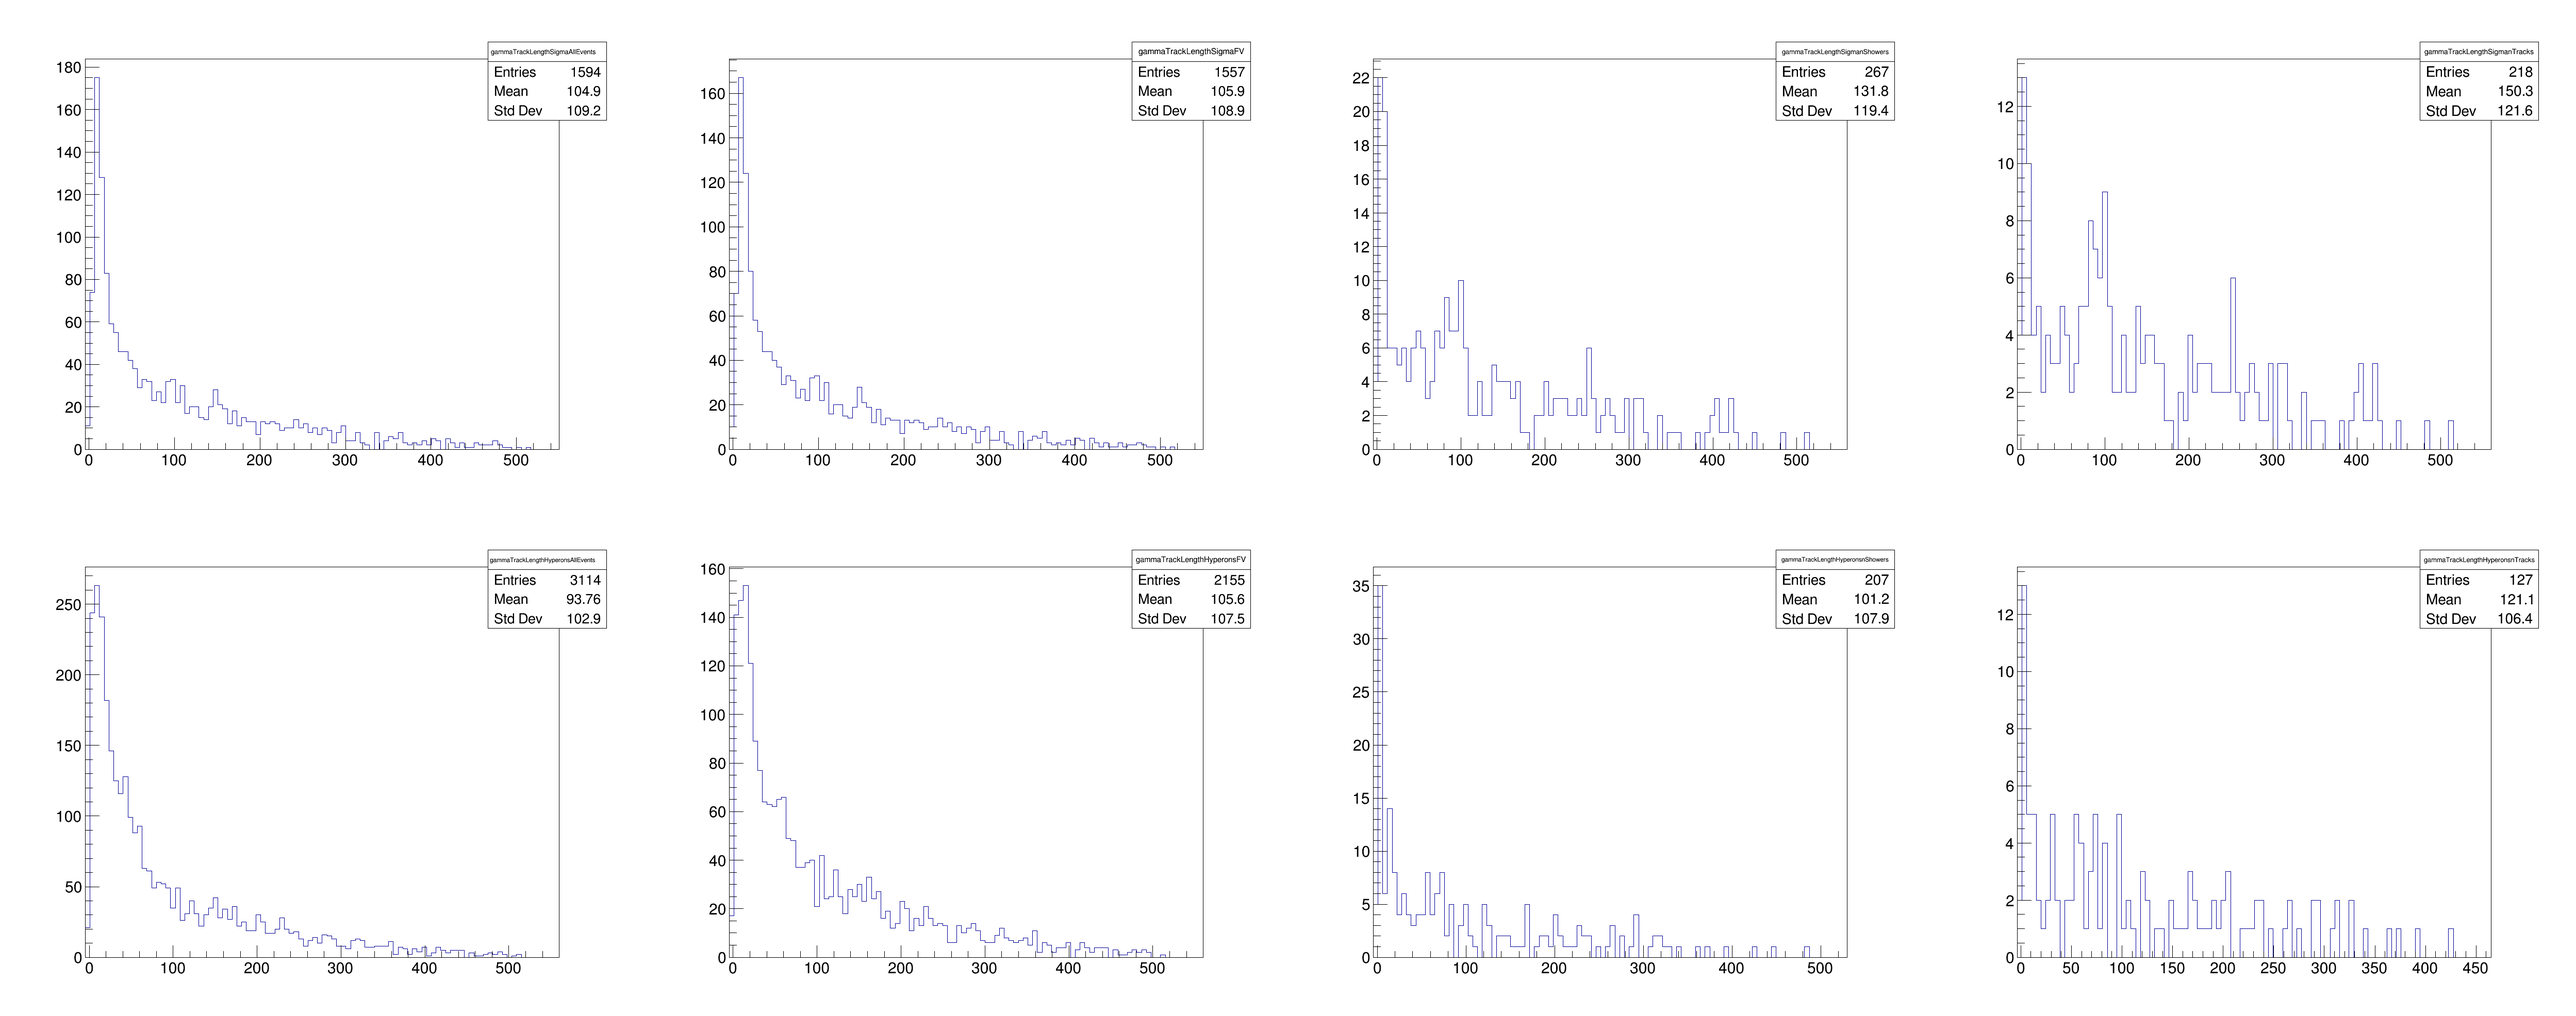
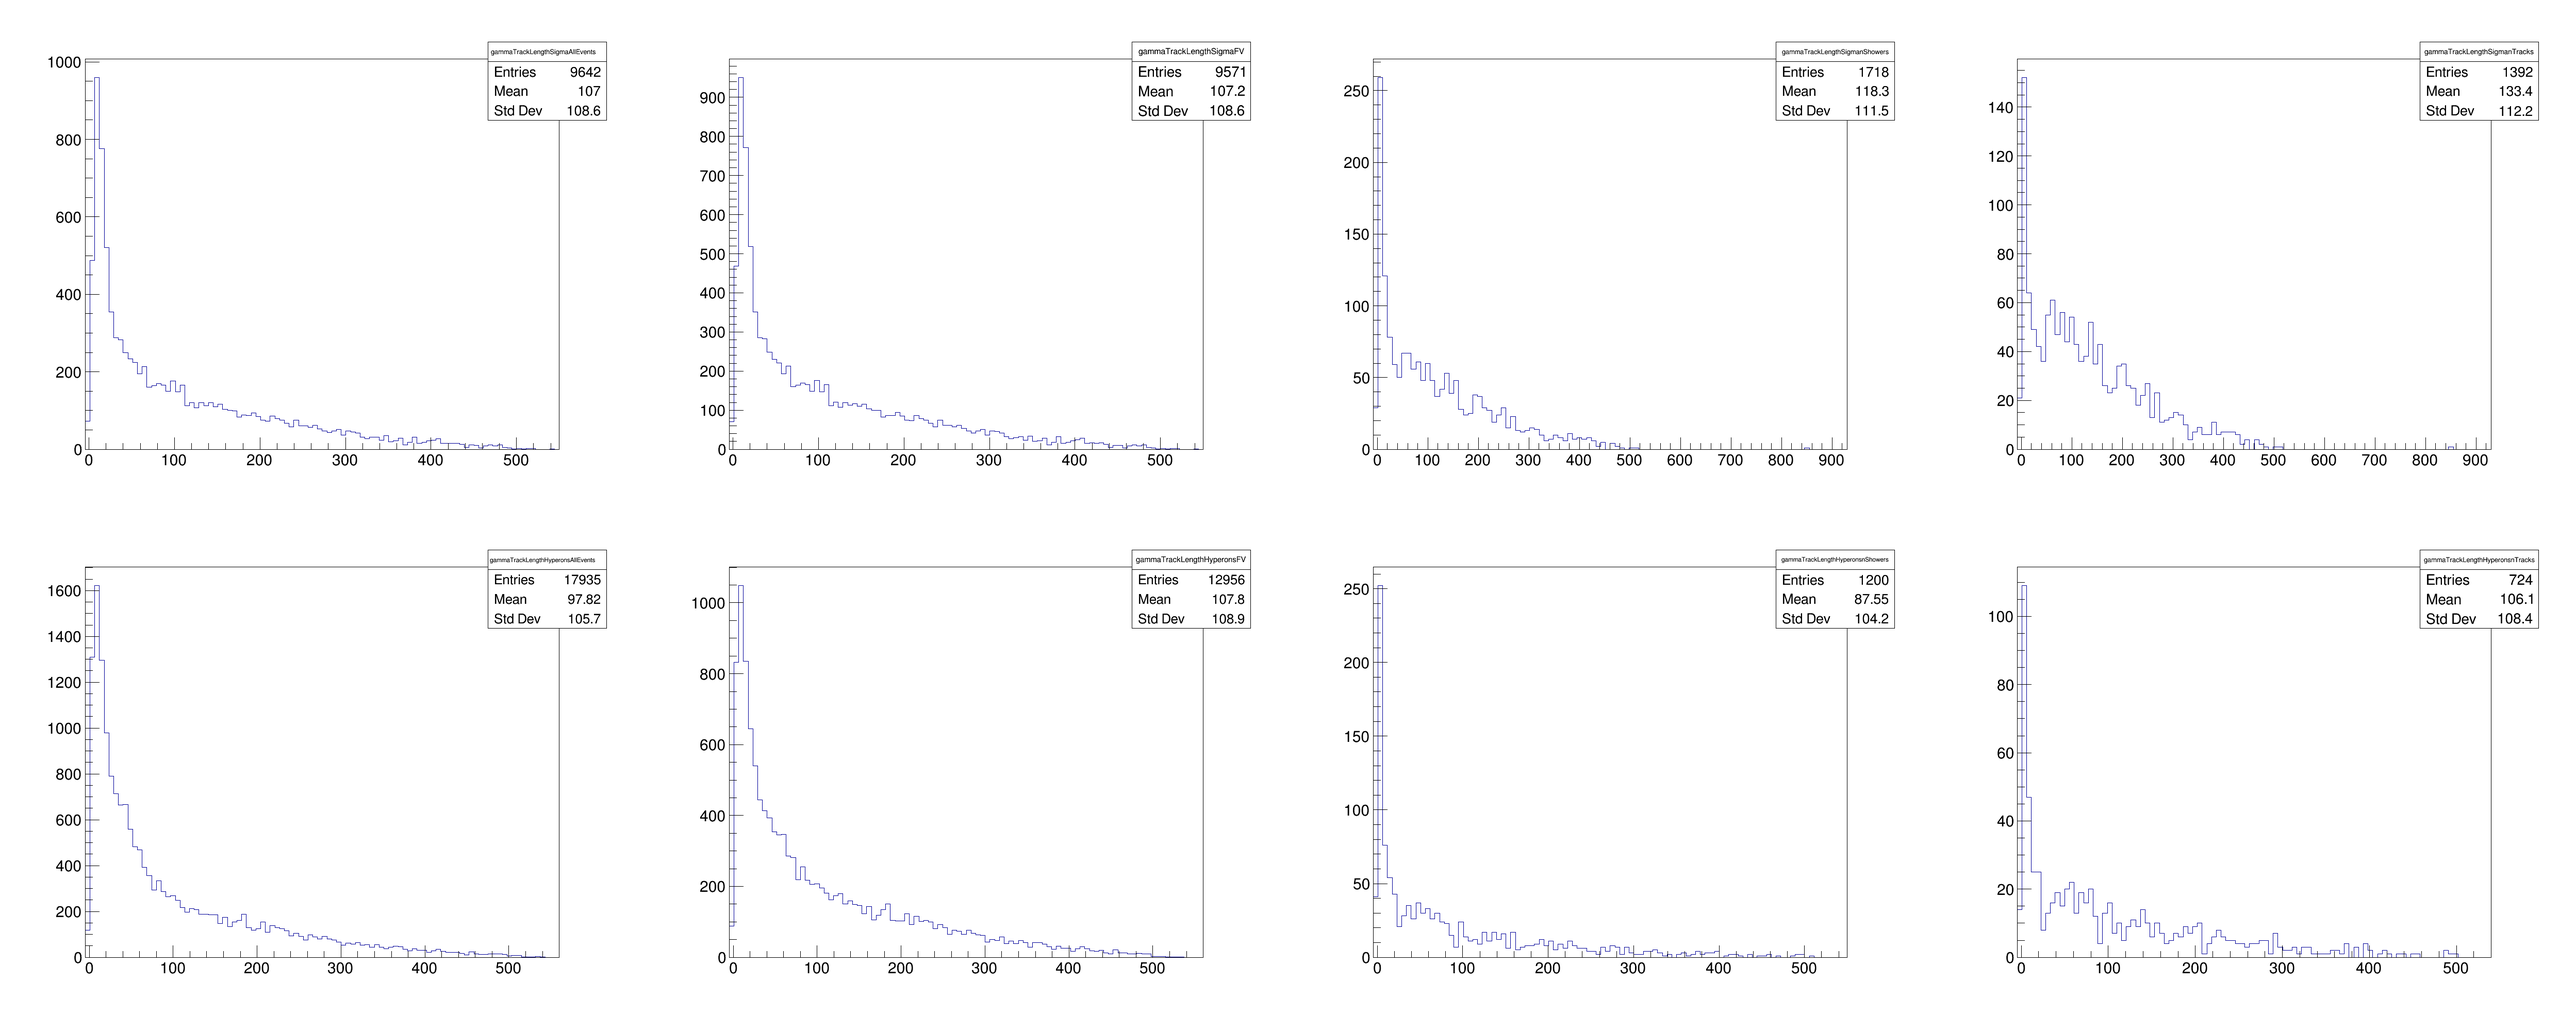
script for running 3 batches at once

diff --git a/output/signalPreselect.h b/output/signalPreselect.h
@@ -1,8 +1,8 @@
 //////////////////////////////////////////////////////////
 // This class has been automatically generated on
-// Tue Feb  3 15:23:03 2026 by ROOT version 6.38.00
-// from TTree TreeS/Output TTree
-// found on file: TreeS.root
+// Fri Feb 13 15:25:29 2026 by ROOT version 6.38.00
+// from TTree tree/Output TTree
+// found on file: hyperonAnalysisSIG.root
 //////////////////////////////////////////////////////////
 
 #ifndef signalPreselect_h
@@ -49,13 +49,19 @@ public :
    vector<float>   *DistanceToRecoVertex;
    vector<float>   *nuScores;
    vector<float>   *trackScores;
+   vector<float>   *muonTrackScores;
+   vector<float>   *protonTrackScores;
+   vector<float>   *pionTrackScores;
    vector<float>   *NeutrinoNuScores;
-   vector<float>   *TrackStartPositionX;
-   vector<float>   *TrackStartPositionY;
-   vector<float>   *TrackStartPositionZ;
-   vector<float>   *TrackEndPositionX;
-   vector<float>   *TrackEndPositionY;
-   vector<float>   *TrackEndPositionZ;
+   vector<float>   *trackStartPositionX;
+   vector<float>   *trackStartPositionY;
+   vector<float>   *trackStartPositionZ;
+   vector<float>   *trackEndPositionX;
+   vector<float>   *trackEndPositionY;
+   vector<float>   *trackEndPositionZ;
+   vector<int>     *pfpTrackPDG;
+   vector<int>     *pfpShowerPDG;
+   vector<int>     *pfpPDG;
 
    // List of branches
    TBranch        *b_eventID;   //!
@@ -83,13 +89,19 @@ public :
    TBranch        *b_DistanceToRecoVertex;   //!
    TBranch        *b_nuScores;   //!
    TBranch        *b_trackScores;   //!
+   TBranch        *b_muonTrackScores;   //!
+   TBranch        *b_protonTrackScores;   //!
+   TBranch        *b_pionTrackScores;   //!
    TBranch        *b_NeutrinoNuScores;   //!
-   TBranch        *b_TrackStartPositionX;   //!
-   TBranch        *b_TrackStartPositionY;   //!
-   TBranch        *b_TrackStartPositionZ;   //!
-   TBranch        *b_TrackEndPositionX;   //!
-   TBranch        *b_TrackEndPositionY;   //!
-   TBranch        *b_TrackEndPositionZ;   //!
+   TBranch        *b_trackStartPositionX;   //!
+   TBranch        *b_trackStartPositionY;   //!
+   TBranch        *b_trackStartPositionZ;   //!
+   TBranch        *b_trackEndPositionX;   //!
+   TBranch        *b_trackEndPositionY;   //!
+   TBranch        *b_trackEndPositionZ;   //!
+   TBranch        *b_pfpTrackPDG;   //!
+   TBranch        *b_pfpShowerPDG;   //!
+   TBranch        *b_pfpPDG; //!
 
    signalPreselect(TTree *tree=0);
    virtual ~signalPreselect();
@@ -168,13 +180,19 @@ void signalPreselect::Init(TTree *tree)
    DistanceToRecoVertex = 0;
    nuScores = 0;
    trackScores = 0;
+   muonTrackScores = 0;
+   protonTrackScores = 0;
+   pionTrackScores = 0;
    NeutrinoNuScores = 0;
-   TrackStartPositionX = 0;
-   TrackStartPositionY = 0;
-   TrackStartPositionZ = 0;
-   TrackEndPositionX = 0;
-   TrackEndPositionY = 0;
-   TrackEndPositionZ = 0;
+   trackStartPositionX = 0;
+   trackStartPositionY = 0;
+   trackStartPositionZ = 0;
+   trackEndPositionX = 0;
+   trackEndPositionY = 0;
+   trackEndPositionZ = 0;
+   pfpTrackPDG = 0;
+   pfpShowerPDG = 0;
+   pfpPDG = 0;
    // Set branch addresses and branch pointers
    if (!tree) return;
    fChain = tree;
@@ -206,13 +224,19 @@ void signalPreselect::Init(TTree *tree)
    fChain->SetBranchAddress("DistanceToRecoVertex", &DistanceToRecoVertex, &b_DistanceToRecoVertex);
    fChain->SetBranchAddress("nuScores", &nuScores, &b_nuScores);
    fChain->SetBranchAddress("trackScores", &trackScores, &b_trackScores);
+   fChain->SetBranchAddress("muonTrackScores", &muonTrackScores, &b_muonTrackScores);
+   fChain->SetBranchAddress("protonTrackScores", &protonTrackScores, &b_protonTrackScores);
+   fChain->SetBranchAddress("pionTrackScores", &pionTrackScores, &b_pionTrackScores);
    fChain->SetBranchAddress("NeutrinoNuScores", &NeutrinoNuScores, &b_NeutrinoNuScores);
-   fChain->SetBranchAddress("TrackStartPositionX", &TrackStartPositionX, &b_TrackStartPositionX);
-   fChain->SetBranchAddress("TrackStartPositionY", &TrackStartPositionY, &b_TrackStartPositionY);
-   fChain->SetBranchAddress("TrackStartPositionZ", &TrackStartPositionZ, &b_TrackStartPositionZ);
-   fChain->SetBranchAddress("TrackEndPositionX", &TrackEndPositionX, &b_TrackEndPositionX);
-   fChain->SetBranchAddress("TrackEndPositionY", &TrackEndPositionY, &b_TrackEndPositionY);
-   fChain->SetBranchAddress("TrackEndPositionZ", &TrackEndPositionZ, &b_TrackEndPositionZ);
+   fChain->SetBranchAddress("trackStartPositionX", &trackStartPositionX, &b_trackStartPositionX);
+   fChain->SetBranchAddress("trackStartPositionY", &trackStartPositionY, &b_trackStartPositionY);
+   fChain->SetBranchAddress("trackStartPositionZ", &trackStartPositionZ, &b_trackStartPositionZ);
+   fChain->SetBranchAddress("trackEndPositionX", &trackEndPositionX, &b_trackEndPositionX);
+   fChain->SetBranchAddress("trackEndPositionY", &trackEndPositionY, &b_trackEndPositionY);
+   fChain->SetBranchAddress("trackEndPositionZ", &trackEndPositionZ, &b_trackEndPositionZ);
+   fChain->SetBranchAddress("pfpTrackPDG", &pfpTrackPDG, &b_pfpTrackPDG);
+   fChain->SetBranchAddress("pfpShowerPDG", &pfpShowerPDG, &b_pfpShowerPDG);
+   fChain->SetBranchAddress("pfpPDG", &pfpPDG, &b_pfpPDG);
    Notify();
 }
 

diff --git a/output/signalDef.h b/output/signalDef.h
@@ -53,12 +53,12 @@ public :
    vector<float>   *protonTrackScores;
    vector<float>   *pionTrackScores;
    vector<float>   *NeutrinoNuScores;
-   vector<float>   *TrackStartPositionX;
-   vector<float>   *TrackStartPositionY;
-   vector<float>   *TrackStartPositionZ;
-   vector<float>   *TrackEndPositionX;
-   vector<float>   *TrackEndPositionY;
-   vector<float>   *TrackEndPositionZ;
+   vector<float>   *trackStartPositionX;
+   vector<float>   *trackStartPositionY;
+   vector<float>   *trackStartPositionZ;
+   vector<float>   *trackEndPositionX;
+   vector<float>   *trackEndPositionY;
+   vector<float>   *trackEndPositionZ;
    vector<int>     *pfpTrackPDG;
    vector<int>     *pfpShowerPDG;
    vector<int>     *pfpPDG;
@@ -93,12 +93,12 @@ public :
    TBranch        *b_protonTrackScores;   //!
    TBranch        *b_pionTrackScores;   //!
    TBranch        *b_NeutrinoNuScores;   //!
-   TBranch        *b_TrackStartPositionX;   //!
-   TBranch        *b_TrackStartPositionY;   //!
-   TBranch        *b_TrackStartPositionZ;   //!
-   TBranch        *b_TrackEndPositionX;   //!
-   TBranch        *b_TrackEndPositionY;   //!
-   TBranch        *b_TrackEndPositionZ;   //!
+   TBranch        *b_trackStartPositionX;   //!
+   TBranch        *b_trackStartPositionY;   //!
+   TBranch        *b_trackStartPositionZ;   //!
+   TBranch        *b_trackEndPositionX;   //!
+   TBranch        *b_trackEndPositionY;   //!
+   TBranch        *b_trackEndPositionZ;   //!
    TBranch        *b_pfpTrackPDG;   //!
    TBranch        *b_pfpShowerPDG;   //!
    TBranch        *b_pfpPDG; //!
@@ -122,11 +122,11 @@ signalDef::signalDef(TTree *tree) : fChain(0)
 // if parameter tree is not specified (or zero), connect the file
 // used to generate this class and read the Tree.
    if (tree == 0) {
-      TFile *f = (TFile*)gROOT->GetListOfFiles()->FindObject("hyperonAnalysisSIG.root");
+      TFile *f = (TFile*)gROOT->GetListOfFiles()->FindObject("hyperons.root");
       if (!f || !f->IsOpen()) {
-         f = new TFile("hyperonAnalysisSIG.root");
+         f = new TFile("hyperons.root");
       }
-      TDirectory * dir = (TDirectory*)f->Get("hyperonAnalysisSIG.root:/ana");
+      TDirectory * dir = (TDirectory*)f->Get("hyperons.root:/ana");
       dir->GetObject("tree",tree);
 
    }
@@ -185,12 +185,12 @@ void signalDef::Init(TTree *tree)
    protonTrackScores = 0;
    pionTrackScores = 0;
    NeutrinoNuScores = 0;
-   TrackStartPositionX = 0;
-   TrackStartPositionY = 0;
-   TrackStartPositionZ = 0;
-   TrackEndPositionX = 0;
-   TrackEndPositionY = 0;
-   TrackEndPositionZ = 0;
+   trackStartPositionX = 0;
+   trackStartPositionY = 0;
+   trackStartPositionZ = 0;
+   trackEndPositionX = 0;
+   trackEndPositionY = 0;
+   trackEndPositionZ = 0;
    pfpTrackPDG = 0;
    pfpShowerPDG = 0;
    pfpPDG = 0;
@@ -229,12 +229,12 @@ void signalDef::Init(TTree *tree)
    fChain->SetBranchAddress("protonTrackScores", &protonTrackScores, &b_protonTrackScores);
    fChain->SetBranchAddress("pionTrackScores", &pionTrackScores, &b_pionTrackScores);
    fChain->SetBranchAddress("NeutrinoNuScores", &NeutrinoNuScores, &b_NeutrinoNuScores);
-   fChain->SetBranchAddress("TrackStartPositionX", &TrackStartPositionX, &b_TrackStartPositionX);
-   fChain->SetBranchAddress("TrackStartPositionY", &TrackStartPositionY, &b_TrackStartPositionY);
-   fChain->SetBranchAddress("TrackStartPositionZ", &TrackStartPositionZ, &b_TrackStartPositionZ);
-   fChain->SetBranchAddress("TrackEndPositionX", &TrackEndPositionX, &b_TrackEndPositionX);
-   fChain->SetBranchAddress("TrackEndPositionY", &TrackEndPositionY, &b_TrackEndPositionY);
-   fChain->SetBranchAddress("TrackEndPositionZ", &TrackEndPositionZ, &b_TrackEndPositionZ);
+   fChain->SetBranchAddress("trackStartPositionX", &trackStartPositionX, &b_trackStartPositionX);
+   fChain->SetBranchAddress("trackStartPositionY", &trackStartPositionY, &b_trackStartPositionY);
+   fChain->SetBranchAddress("trackStartPositionZ", &trackStartPositionZ, &b_trackStartPositionZ);
+   fChain->SetBranchAddress("trackEndPositionX", &trackEndPositionX, &b_trackEndPositionX);
+   fChain->SetBranchAddress("trackEndPositionY", &trackEndPositionY, &b_trackEndPositionY);
+   fChain->SetBranchAddress("trackEndPositionZ", &trackEndPositionZ, &b_trackEndPositionZ);
    fChain->SetBranchAddress("pfpTrackPDG", &pfpTrackPDG, &b_pfpTrackPDG);
    fChain->SetBranchAddress("pfpShowerPDG", &pfpShowerPDG, &b_pfpShowerPDG);
    fChain->SetBranchAddress("pfpPDG", &pfpPDG, &b_pfpPDG);

diff --git a/output/signalDef.C b/output/signalDef.C
@@ -49,9 +49,9 @@ void signalDef::Loop()
    Samples[2] = "Background";
    
    int nEvents[3] = {0};
-   nEvents[0] = 10443; // Sigma COUNT
-   nEvents[1] = nEvents[0]; // Hyperons
-   nEvents[2] = 1 + nEvents[0]; // BKG
+   nEvents[0] = 56344; // number of events in hyperon files
+   nEvents[1] = nEvents[0]; // hyperons
+   nEvents[2] = 1 + nEvents[0]; // number of events in bkg files
    
 
    double PoT[4] = {0};
@@ -100,6 +100,7 @@ void signalDef::Loop()
    VarName[14] = "gammaTrackDistToVtx";
 
    TH1F *Hist[nVars][3][nCuts];
+   TH2F *hTracksShowers = new TH2F("nTracks v nShowers", "", 100, -1, -1, 100, -1, -1);
 
    for (int s = 0; s < 3; s++){ // samples
 	  for (int v = 0; v < nVars; v++){ // variables
@@ -165,7 +166,7 @@ void signalDef::Loop()
       int daughterCounter = 0;
 
       std::cout<<"****************** new event ********************"<<std::endl;
-      std::cout<<"trackStartPosition size = "<<TrackStartPositionX->size()<<std::endl;
+      std::cout<<"trackStartPosition size = "<<trackStartPositionX->size()<<std::endl;
       std::cout<<"distance to reco vertex size = "<<DistanceToRecoVertex->size()<<std::endl;
       std::cout<<"TrackLengths size = "<<TrackLengths->size()<<std::endl;
       std::cout<<"trackScores size = "<<trackScores->size()<<std::endl;
@@ -276,19 +277,20 @@ void signalDef::Loop()
 			std::cout<<"signal event, nSignal = "<<nGoodSigma<<std::endl;
 			IsSignal = true;
 			signalTree->Fill();
+		        hTracksShowers->Fill(trackCount, showerCount);
 	    }
-	    if (IsLambda){
-		nLambda++;
-		std::cout<<"lambda event, nLambda = "<<nLambda<<std::endl; // check daughters of lambda for pion- and proton
-		if (IsGoodLambda){
-			nGoodLambda++;
-			std::cout<<"lambda w proton/pion daughters event, n goodlambda = "<<nGoodLambda<<std::endl;
-		}
-	    }
+	   // if (IsLambda){
+	//	nLambda++;
+	//	std::cout<<"lambda event, nLambda = "<<nLambda<<std::endl; // check daughters of lambda for pion- and proton
+	//	if (IsGoodLambda){
+	//		nGoodLambda++;
+	//		std::cout<<"lambda w proton/pion daughters event, n goodlambda = "<<nGoodLambda<<std::endl;
+	//	}
+	  //  }
 	}
 
-      if(IsSignal && jentry < nEvents[0] + 1){s=0;}
-      if(!IsSignal && jentry < nEvents[0] + 1){s=1;}
+      if(IsSignal && jentry < nEvents[0] + 1){s=0;} // if signal and we're still within range of hyperon file events
+      if(!IsSignal && jentry < nEvents[0] + 1){s=1;} // if not signal but we're still within range of hyperon file events (other hyperons)
 
       // Preselection
 
@@ -378,6 +380,10 @@ void signalDef::Loop()
     c2->Print("plots/"+VarName[v]+".png");
     c2->Clear();
   }
+
+   TCanvas *c3 = new TCanvas("c3", "", 3000, 3000);
+   hTracksShowers->Draw("text");
+   c3->Print("ntracks_v_nshowers.png");
 
    std::cout<<"num of sigma: "<<nSigma<<std::endl;
    std::cout<<"num of lambda: "<<nLambda<<std::endl;

diff --git a/AnalyzeEvents_module.cc b/AnalyzeEvents_module.cc
@@ -220,6 +220,7 @@ void hyperon::AnalyzeEvents::analyze(art::Event const& evt)
  fCosmicNuScores.clear();
  fTrackScores.clear();
  highestNuScore = 0.;
+ nuSliceKey = -1;
  fFoundRecoVertex = false;
  fRecoVertex.SetXYZ(-9999., -9999., -9999.);
  fRecoVertexX = -9999.;
@@ -293,7 +294,7 @@ void hyperon::AnalyzeEvents::analyze(art::Event const& evt)
 
 	fNPfpSlices.push_back(slicePFPs.size());
 	std::cout<<"Slice key: "<< slice.key()<<", Number of PFPs: "<< slicePFPs.size() << std::endl;
-
+	std::cout<<"nuSliceKey = "<<nuSliceKey<<std::endl;
 
 	for (const art::Ptr<recob::PFParticle> &slicePFP : slicePFPs){
 
@@ -301,7 +302,14 @@ void hyperon::AnalyzeEvents::analyze(art::Event const& evt)
 		const bool isNeutrino = (std::abs(slicePFP->PdgCode()) == 14);
 
 		if (!(isPrimary && isNeutrino)){
-			//std::cout<<"Not a primary neutrino, skipping PFP!"<<std::endl;
+			std::cout<<"Not a primary neutrino, skipping PFP!"<<std::endl;
+			continue;
+		}
+
+		std::cout<<"Is a primary neutrino, not skipping!"<<std::endl;
+
+		if (slicePFP.key() >= pfpMetadataAssoc.size()){
+			std::cerr<<"PFP key "<<slicePFP.key()<<" out of bounds for pfpMetadataAssoc, size = "<<pfpMetadataAssoc.size()<<std::endl;
 			continue;
 		}
 
@@ -385,7 +393,13 @@ void hyperon::AnalyzeEvents::analyze(art::Event const& evt)
 	}	
 
    } 
-  }
+ }
+
+std::cout<<"After looping over all slices, nuSliceKey = "<<nuSliceKey<<std::endl;
+if (nuSliceKey < 0){
+	std::cerr<<"No slice contained a primary neutrino!"<<std::endl;
+	return;
+}
 
 // Define vector of PFPs in nuSlice
    std::vector<art::Ptr<recob::PFParticle>> nuSlicePFPs(slicePFPAssoc.at(nuSliceKey));

diff --git a/output/signalPreselect.C b/output/signalPreselect.C
@@ -62,7 +62,8 @@ void signalPreselect::Loop()
    TTree *signalPreTree = fChain->CloneTree(0);
    signalPreTree->SetName("preTreeS");
    signalPreTree->SetDirectory(outFile);
-  
+
+   TH2F *hTracksShowers = new TH2F("nTracksvShowers", "", 100, -1, -1, 100, -1, -1);  
    int minShowers = 1;
    int maxShowers = 2;
 
@@ -75,9 +76,13 @@ void signalPreselect::Loop()
       nb = fChain->GetEntry(jentry);   nbytes += nb;
       // if (Cut(ientry) < 0) continue;
        
+      std::cout<<"*********** new event num: "<<jentry<<"****************"<<std::endl;
+
       bool IsInRecoFV = false;
       bool HasTrackRange = false;
       bool HasShowerRange = false;
+
+      hTracksShowers->Fill(trackCount, showerCount);
 
       // Apply preselection cuts
       
@@ -95,13 +100,19 @@ void signalPreselect::Loop()
 	   if(HasTrackRange){
 		  if(HasShowerRange){
 			  signalPreTree->Fill();
+			  std::cout<<"Filling preselect hist"<<std::endl;
 		  }
 	   }
       }
    }
 
+   std::cout<<"end of event loop"<<std::endl;
    outFile->cd();
    signalPreTree->Write("preTreeS");
    outFile->Close();
    delete outFile;
+
+   TCanvas *c1 = new TCanvas("nTracksShowers", "", 2500, 2500);
+   hTracksShowers->Draw("text");
+   c1->Print("plots/nTracksShowers.png");
 }

diff --git a/output/TMVA/TMVAClassification.C b/output/TMVA/TMVAClassification.C
@@ -191,6 +191,9 @@ int TMVAClassification( TString myMethodList = "" )
    //dataloader->AddVariable( "angleMuonPion", 'F');
    //dataloader->AddVariable( "angleMuonProton", 'F');
    //dataloader->AddVariable( "anglePionProton", 'F');
+   //dataloader->AddVariable( "distTrack1Track2", 'F');
+   //dataloader->AddVariable( "distTrack1Track3", 'F');
+   //dataloader->AddVariable( "distTrack2Track3", 'F');
  
    // You can add so-called "Spectator variables", which are not used in the MVA training,
    // but will appear in the final "TestTree" produced by TMVA. This TestTree will contain the
